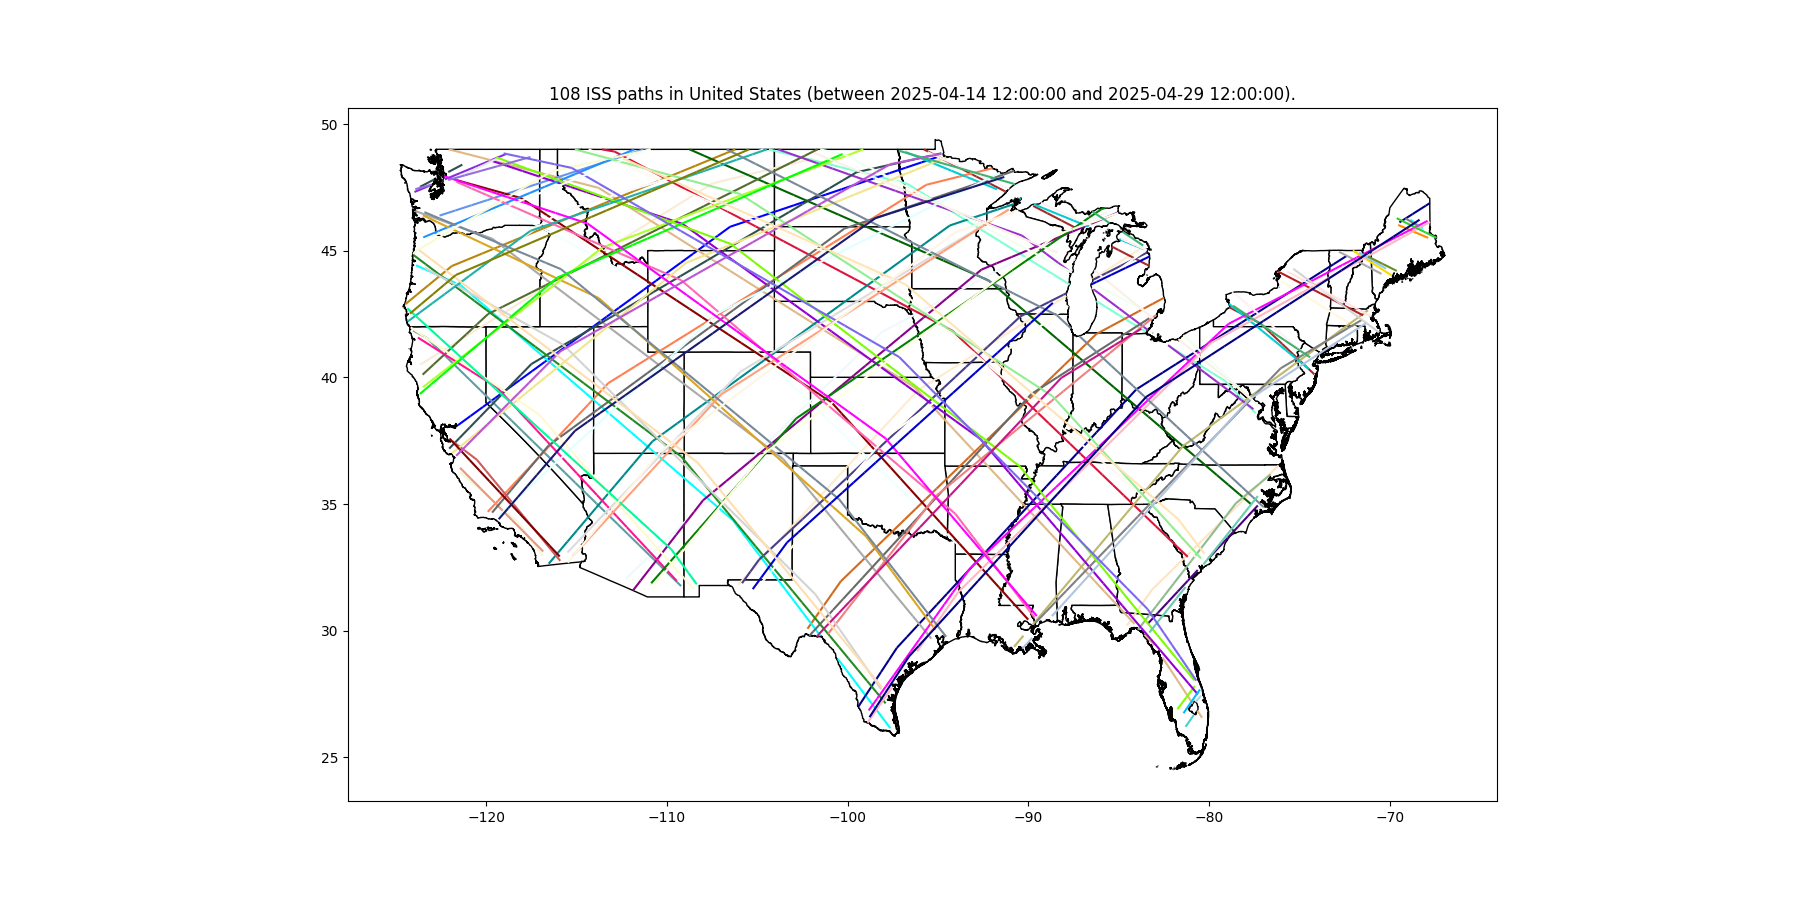
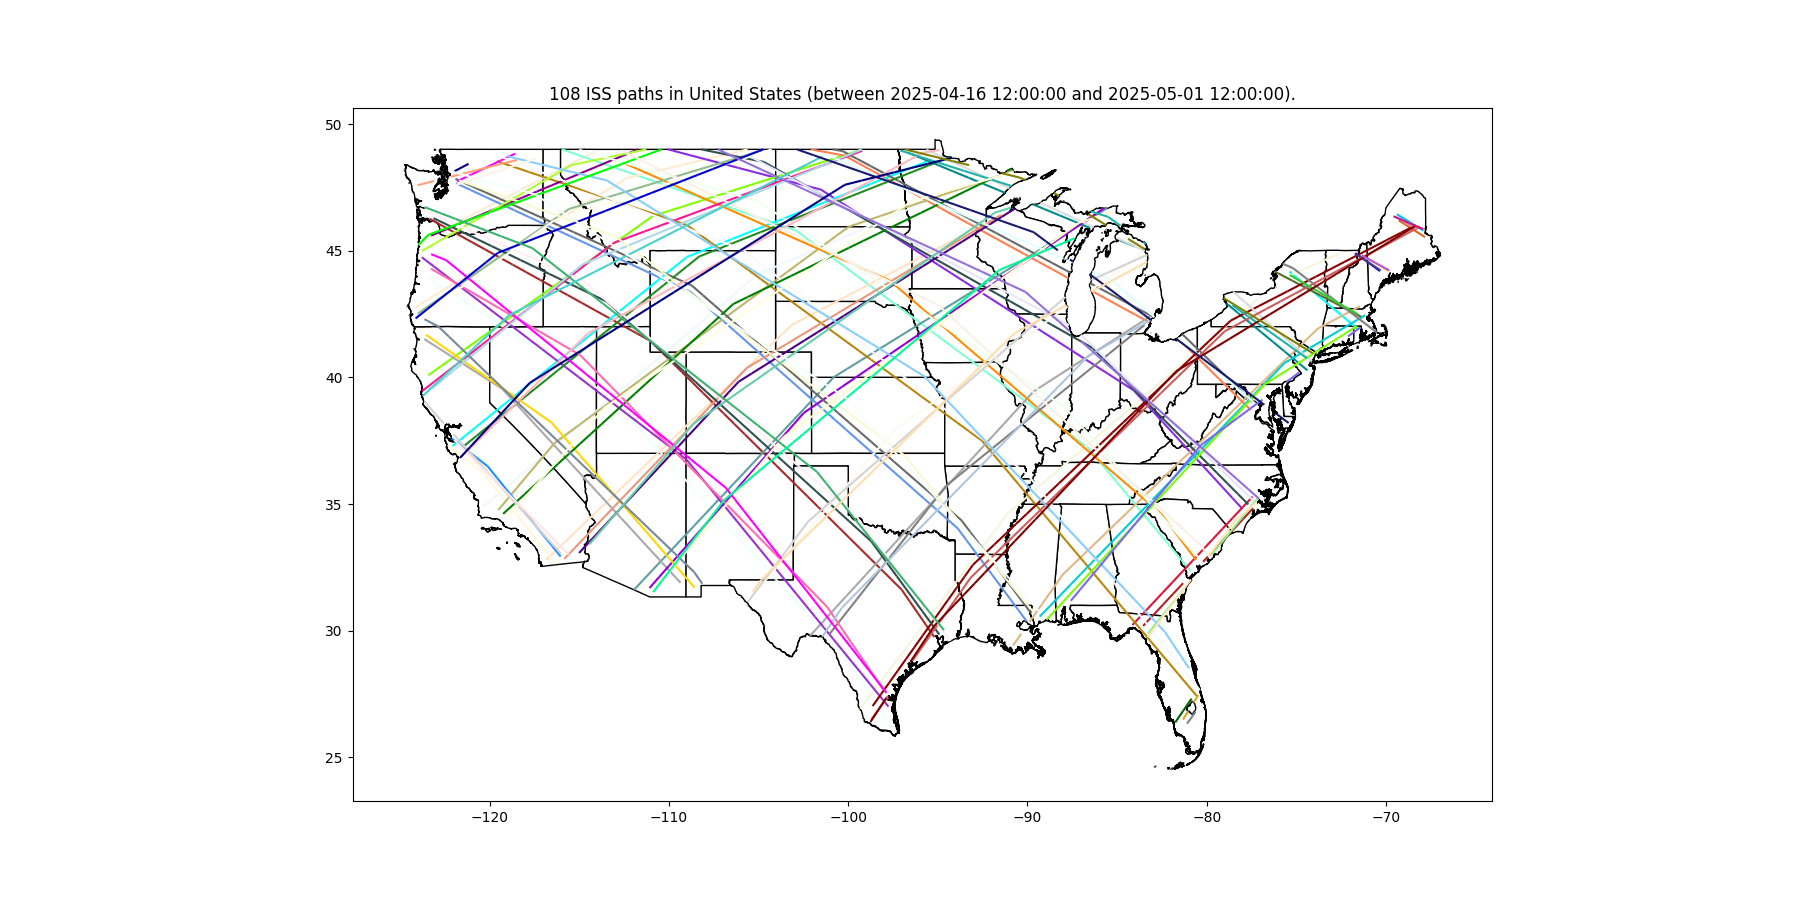
Fixed mermaid flowchart

diff --git a/year2025/poster/README.md b/year2025/poster/README.md
@@ -122,10 +122,10 @@ After gathering the data (on future positions) for a given date range,
 we want to determine the number of ISS orbits, 
 the number of countries visited, the countries most overpassed, etc.
 
-From __April 14, 2025__ (at 12:00 pm) till __April 29, 2025__ (at 12:00 pm), ISS will:
-- Have 217 orbits.
-- Overpass 166 countries or territories.
-- Fly over Russia, the United States and China 109, 108 and 105 times, respectively.
+From __April 16, 2025__ (at 12:00 pm) till __May 1, 2025__ (at 12:00 pm), ISS will:
+- Have 218 orbits.
+- Overpass 169 countries or territories.
+- Fly over Russia, the United States and China 110, 108 and 105 times, respectively.
 
 > [!NOTE]  
 > We are using here the future tense because we are dealing here with future positions of ISS.
